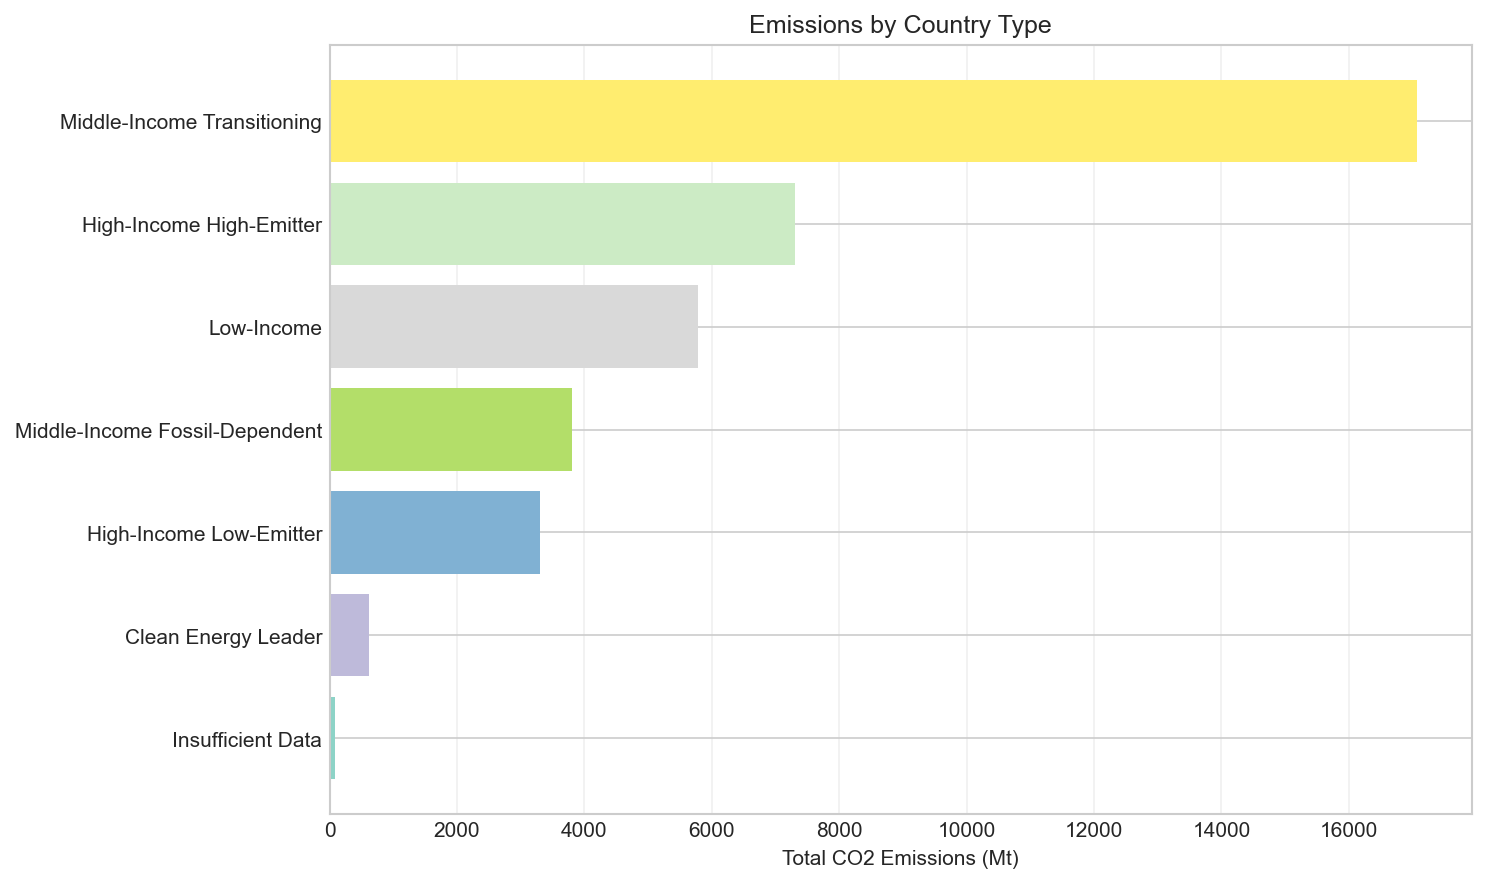
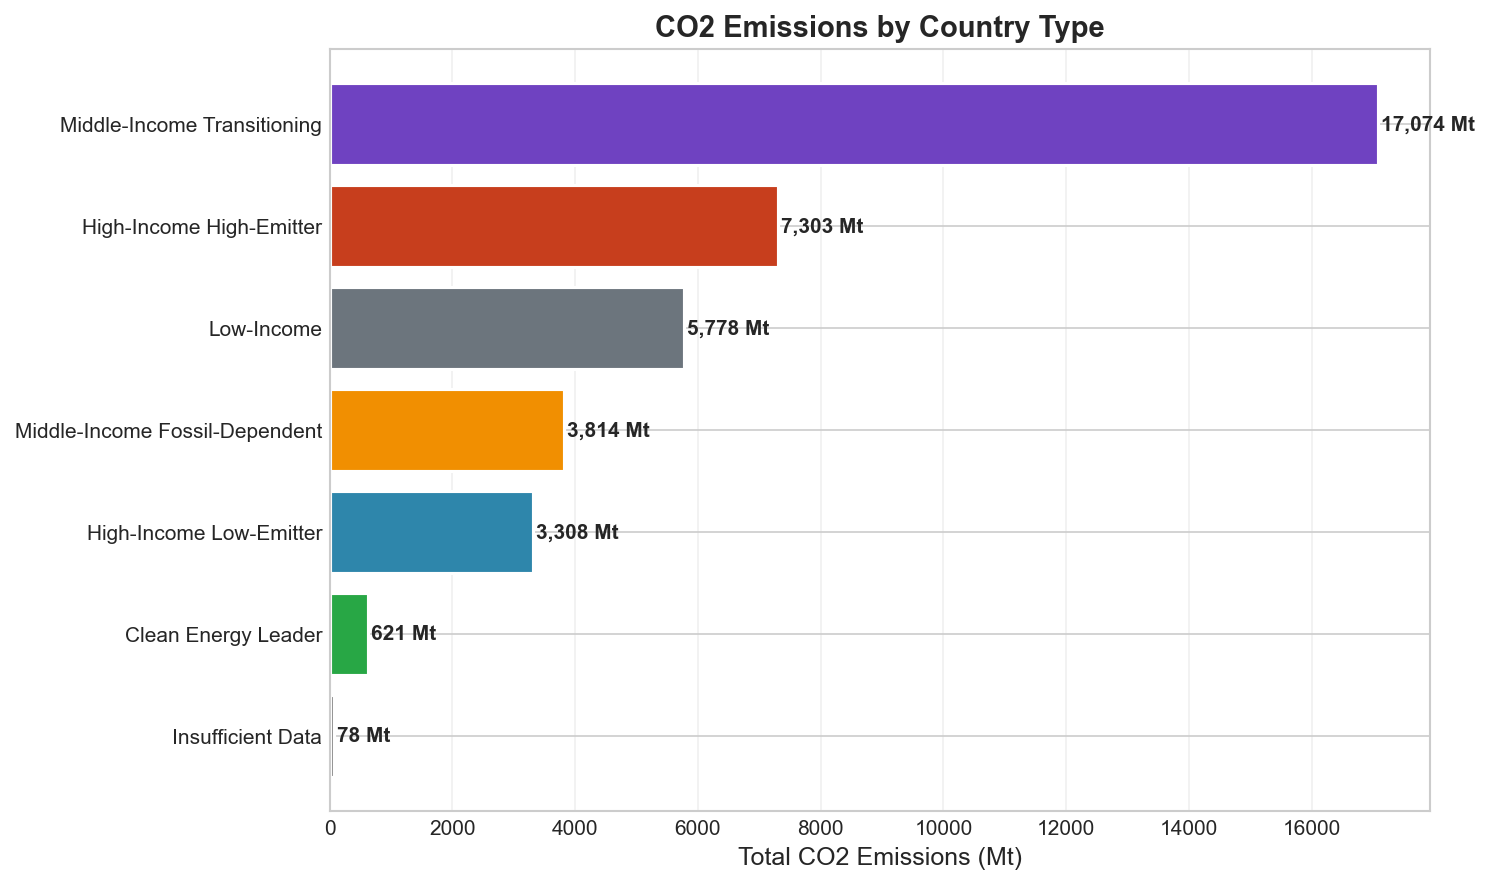
Update sector breakdown figures with different colour palette.

diff --git a/src/q5_strategic_recommendations.py b/src/q5_strategic_recommendations.py
@@ -513,34 +513,79 @@ def create_visualizations(df: pd.DataFrame, priority_results: dict,
     plt.close()
     print("Saved: priority_countries.png")
     
-    # 2. Sector Analysis
+    # 2. Sector Analysis (with improved color palette, sorted high to low)
     if 'global_sectors' in sector_results:
-        fig, ax = plt.subplots(figsize=(8, 6))
+        fig, ax = plt.subplots(figsize=(10, 8))
         
         sectors = list(sector_results['global_sectors'].keys())
         shares = [sector_results['global_sectors'][s]['share_pct'] for s in sectors]
         
-        colors = plt.cm.Set2(np.linspace(0, 1, len(sectors)))
-        ax.pie(shares, labels=[s.replace('_', ' ').title() for s in sectors], 
-               autopct='%1.1f%%', colors=colors)
-        ax.set_title('Global CO2 Emissions by Sector')
+        # Sort by share (highest to lowest)
+        sorted_data = sorted(zip(sectors, shares), key=lambda x: x[1], reverse=True)
+        sectors = [x[0] for x in sorted_data]
+        shares = [x[1] for x in sorted_data]
+        
+        # Professional, colorblind-friendly palette
+        sector_colors = {
+            'transport': '#2E86AB',      # Blue
+            'power': '#A23B72',          # Magenta
+            'industry': '#F18F01',       # Orange
+            'buildings': '#C73E1D',      # Red
+            'other': '#3B1F2B'           # Dark purple
+        }
+        colors = [sector_colors.get(s.lower(), '#888888') for s in sectors]
+        
+        # Use horizontal bar chart instead of pie (easier to compare)
+        y_pos = np.arange(len(sectors))
+        bars = ax.barh(y_pos, shares, color=colors, edgecolor='white', linewidth=1.5)
+        
+        # Add value labels
+        for bar, share in zip(bars, shares):
+            ax.text(bar.get_width() + 1, bar.get_y() + bar.get_height()/2,
+                    f'{share:.1f}%', va='center', fontsize=11, fontweight='bold')
+        
+        ax.set_yticks(y_pos)
+        ax.set_yticklabels([s.replace('_', ' ').title() for s in sectors], fontsize=11)
+        ax.set_xlabel('Share of CO2 Emissions (%)', fontsize=12)
+        ax.set_title('Global CO2 Emissions by Sector', fontsize=14, fontweight='bold')
+        ax.grid(True, alpha=0.3, axis='x')
+        ax.set_xlim(0, max(shares) * 1.15)
+        ax.invert_yaxis()  # Highest at top
         
         plt.tight_layout()
         plt.savefig(output_dir / 'sector_breakdown.png', dpi=150, bbox_inches='tight')
         plt.close()
         print("Saved: sector_breakdown.png")
     
-    # 3. Country Type Distribution
+    # 3. Country Type Distribution (with improved color palette)
     if 'country_type' in df.columns:
         fig, ax = plt.subplots(figsize=(10, 6))
         
-        type_emissions = df.groupby('country_type')['co2_emissions_mt'].sum().sort_values(ascending=True)
-        colors = plt.cm.Set3(np.linspace(0, 1, len(type_emissions)))
+        type_emissions = df.groupby('country_type')['co2_emissions_mt'].sum().sort_values(ascending=False)
         
-        ax.barh(type_emissions.index, type_emissions.values, color=colors)
-        ax.set_xlabel('Total CO2 Emissions (Mt)')
-        ax.set_title('Emissions by Country Type')
+        # Professional color palette for country types
+        type_colors = {
+            'High-Income High-Emitter': '#C73E1D',      # Red - high concern
+            'High-Income Low-Emitter': '#2E86AB',       # Blue - doing well
+            'Clean Energy Leader': '#28A745',           # Green - leaders
+            'Middle-Income Fossil-Dependent': '#F18F01', # Orange - needs transition
+            'Middle-Income Transitioning': '#6F42C1',   # Purple - in progress
+            'Low-Income': '#6C757D'                     # Gray - different priorities
+        }
+        colors = [type_colors.get(t, '#888888') for t in type_emissions.index]
+        
+        bars = ax.barh(type_emissions.index, type_emissions.values, color=colors, 
+                       edgecolor='white', linewidth=1.5)
+        
+        # Add value labels
+        for bar, val in zip(bars, type_emissions.values):
+            ax.text(bar.get_width() + 50, bar.get_y() + bar.get_height()/2,
+                    f'{val:,.0f} Mt', va='center', fontsize=10, fontweight='bold')
+        
+        ax.set_xlabel('Total CO2 Emissions (Mt)', fontsize=12)
+        ax.set_title('CO2 Emissions by Country Type', fontsize=14, fontweight='bold')
         ax.grid(True, alpha=0.3, axis='x')
+        ax.invert_yaxis()  # Highest at top
         
         plt.tight_layout()
         plt.savefig(output_dir / 'emissions_by_country_type.png', dpi=150, bbox_inches='tight')
